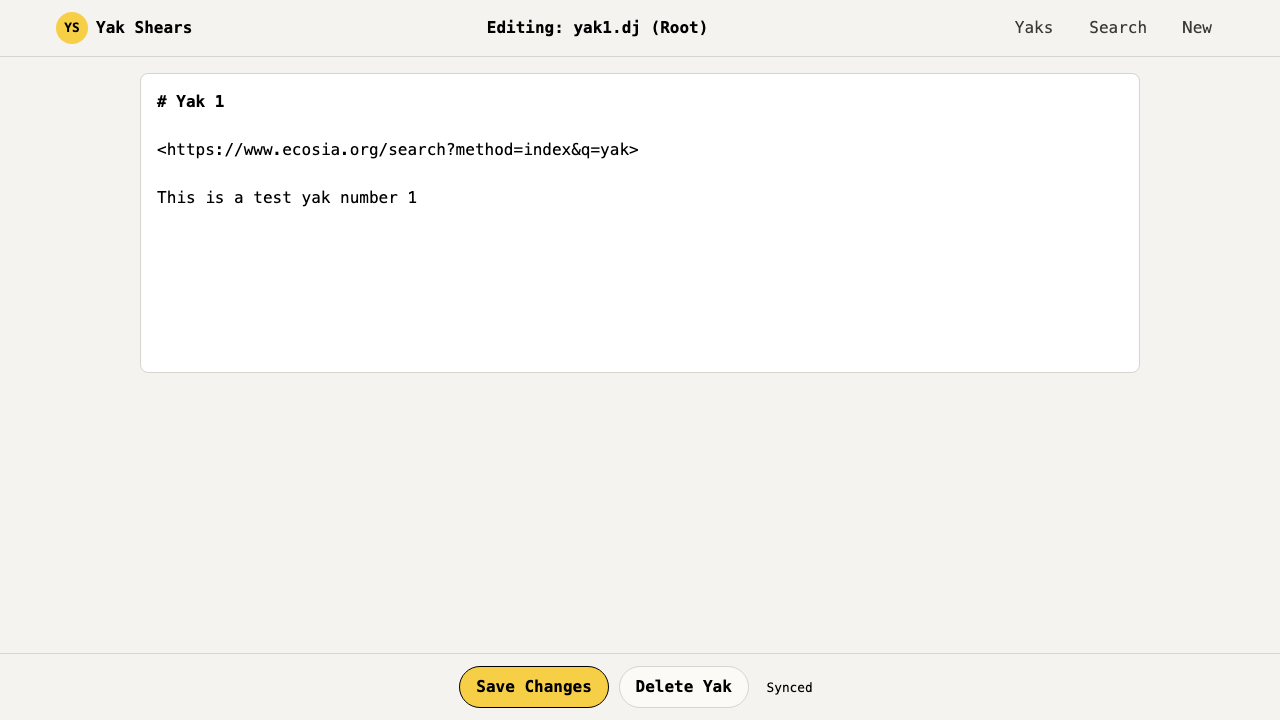
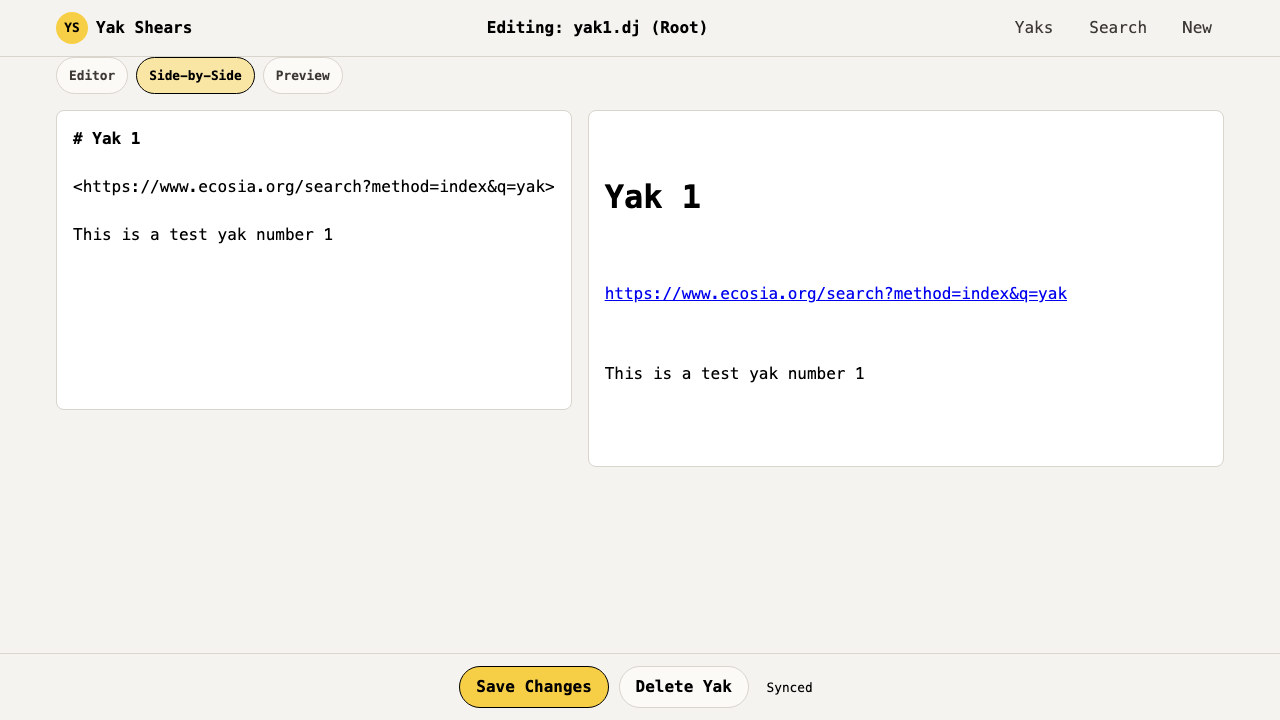
feat: add preview toggle

diff --git a/yak_shears/static/js/editor.js b/yak_shears/static/js/editor.js
@@ -9,6 +9,44 @@
 const maxRetries = 50; // 5 seconds at 100ms intervals
 let retries = 0;
 let jar; // Global reference to CodeJar instance
+let currentView = "editor"; // Current view mode
+
+function renderPreview(content) {
+	const previewContent = document.getElementById("preview-content");
+	if (previewContent && window.djot) {
+		try {
+			const html = window.djot.renderHTML(window.djot.parse(content));
+			previewContent.innerHTML = html;
+		} catch (error) {
+			console.error("Error rendering preview:", error);
+			previewContent.textContent = content;
+		}
+	}
+}
+
+function setViewMode(mode) {
+	const container = document.getElementById("editor-container");
+	const buttons = document.querySelectorAll(".view-toggle .button");
+
+	// Remove active class from all buttons
+	buttons.forEach((btn) => btn.classList.remove("active"));
+
+	// Add active class to selected button
+	const activeButton = document.querySelector(`[data-view="${mode}"]`);
+	if (activeButton) {
+		activeButton.classList.add("active");
+	}
+
+	// Update container classes
+	container.className = "editor-container " + mode.replace("-", "");
+
+	currentView = mode;
+
+	// Update preview if switching to a mode that shows it
+	if (mode === "side-by-side" || mode === "preview") {
+		renderPreview(jar ? jar.toString() : window.serverContent);
+	}
+}
 
 function initEditor() {
 	const editor = document.querySelector(".editor");
@@ -100,7 +138,35 @@ function initEditor() {
 				localStorage.setItem(storageKey, code);
 				updateSaveStatus("Modified");
 			}
+			// Update preview if it's visible
+			if (currentView === "side-by-side" || currentView === "preview") {
+				renderPreview(code);
+			}
 			// PLANNED: Consider how to otherwise prune old unused local storage? Might need a separate local review page which compares against server?
+		});
+
+		// Initialize view toggle buttons
+		document.querySelectorAll(".view-toggle .button").forEach((button) => {
+			button.addEventListener("click", () => {
+				const view = button.getAttribute("data-view");
+				setViewMode(view);
+			});
+		});
+
+		// Set initial view mode (default to editor-only for mobile, side-by-side for desktop)
+		const isMobile = window.innerWidth <= 768;
+		const initialView = isMobile ? "editor" : "side-by-side";
+		setViewMode(initialView);
+
+		// Handle window resize to switch modes
+		let lastWidth = window.innerWidth;
+		window.addEventListener("resize", () => {
+			const wasMobile = lastWidth <= 768;
+			const nowMobile = window.innerWidth <= 768;
+			lastWidth = window.innerWidth;
+			if (wasMobile !== nowMobile && currentView === "side-by-side") {
+				setViewMode(nowMobile ? "editor" : "side-by-side");
+			}
 		});
 	} else if (retries < maxRetries) {
 		retries++;

diff --git a/yak_shears/static/css/main.css b/yak_shears/static/css/main.css
@@ -361,23 +361,73 @@ pre code {
 	background: none;
 }
 
-.editor {
-	background: var(--color-surface);
-	border-radius: var(--radius-sm);
-	border: 1px solid var(--color-border);
-	line-height: 1.5;
-	margin: 0 auto 5rem auto;
-	max-width: 1000px;
-	min-height: 300px;
-	padding: var(--space-4);
-	white-space: pre-wrap;
-}
-
 .editor__header {
 	display: flex;
 	justify-content: space-between;
 	align-items: center;
 	margin-bottom: var(--space-4);
+}
+
+.view-toggle {
+	display: flex;
+	gap: var(--space-2);
+}
+
+.view-toggle .button {
+	background: var(--color-surface-alt);
+	color: var(--color-text-dim);
+}
+
+.view-toggle .button.active {
+	background: var(--color-accent);
+	color: #000;
+	border-color: #000;
+}
+
+.editor-container {
+	display: flex;
+	gap: var(--space-4);
+	margin: 0 auto var(--space-5) auto;
+	max-width: 1200px;
+}
+
+.editor-container.editor-only .preview {
+	display: none;
+}
+
+.editor-container.preview-only .editor {
+	display: none;
+}
+
+.editor-container.side-by-side .editor,
+.editor-container.side-by-side .preview {
+	flex: 1;
+}
+
+.editor {
+	background: var(--color-surface);
+	border-radius: var(--radius-sm);
+	border: 1px solid var(--color-border);
+	line-height: 1.5;
+	min-height: 300px;
+	padding: var(--space-4);
+	white-space: pre-wrap;
+	flex: 1;
+}
+
+.preview {
+	background: var(--color-surface);
+	border-radius: var(--radius-sm);
+	border: 1px solid var(--color-border);
+	padding: var(--space-4);
+	flex: 1;
+	min-height: 300px;
+	overflow-y: auto;
+}
+
+.preview-content {
+	line-height: 1.5;
+	white-space: pre-wrap;
 }
 
 .editor__actions {
@@ -631,5 +681,21 @@ pre code {
 	.search-results-sidebar {
 		border-right: none;
 		border-bottom: 1px solid var(--color-border);
+	}
+
+	.editor-container {
+		flex-direction: column;
+	}
+
+	.editor-container.editor,
+	.editor-container.preview,
+	.editor-container.side-by-side {
+		flex-direction: column;
+	}
+
+	.editor-container .editor,
+	.editor-container .preview {
+		flex: none;
+		width: 100%;
 	}
 }

diff --git a/AGENTS.md b/AGENTS.md
@@ -110,6 +110,7 @@ Now implemented with CodeJar
 - When editing a bulleted or numbered list, there is logic to intelligently indent the current item right or left. On Desktop this is with Tab and Shift+Tab and on mobile, there are buttons added to the keyboard. The indentation is in increments of four spaces, can't be deeper than the parent item, and (TBD - adds a new line above when indenting and removes when out denting)
 - When typing enter from a bulleted or numbered list, the next line is automatically started with a continuation with matching indentation
 - Supports toggling italic and bold on the selected text. On mobile, the keyboard is extended with buttons to apply bullet or italic to highlighted text
+- Toggle between three view modes: Editor-only, Side-by-side (editor and preview), and Preview-only
 
 ### Note Preview
 
@@ -148,8 +149,8 @@ Implemented as a full page at /search with fuzzy search using persistent and laz
 ### Yak Page
 
 - URL is `/yak?yak=<yak-path>` (PLANNED: this is currently `/edit?yak=...`)
-- On mobile, defaults to Yak Editor component full screen. If the screen is wide enough, the preview is shown side-by-side
-- There is a button to toggle between Editor and Preview components
+- Toggle buttons to switch between Editor-only, Side-by-side (editor and preview), and Preview-only modes
+- On mobile, defaults to Editor-only mode. On desktop, defaults to Side-by-side mode
 - There is a feature to link yaks (*TBD*)
 - There is a feature to see similar yaks (*TBD*)
 - There is a feature to support configuring yak metadata during edit and to view when viewing (*TBD*)
